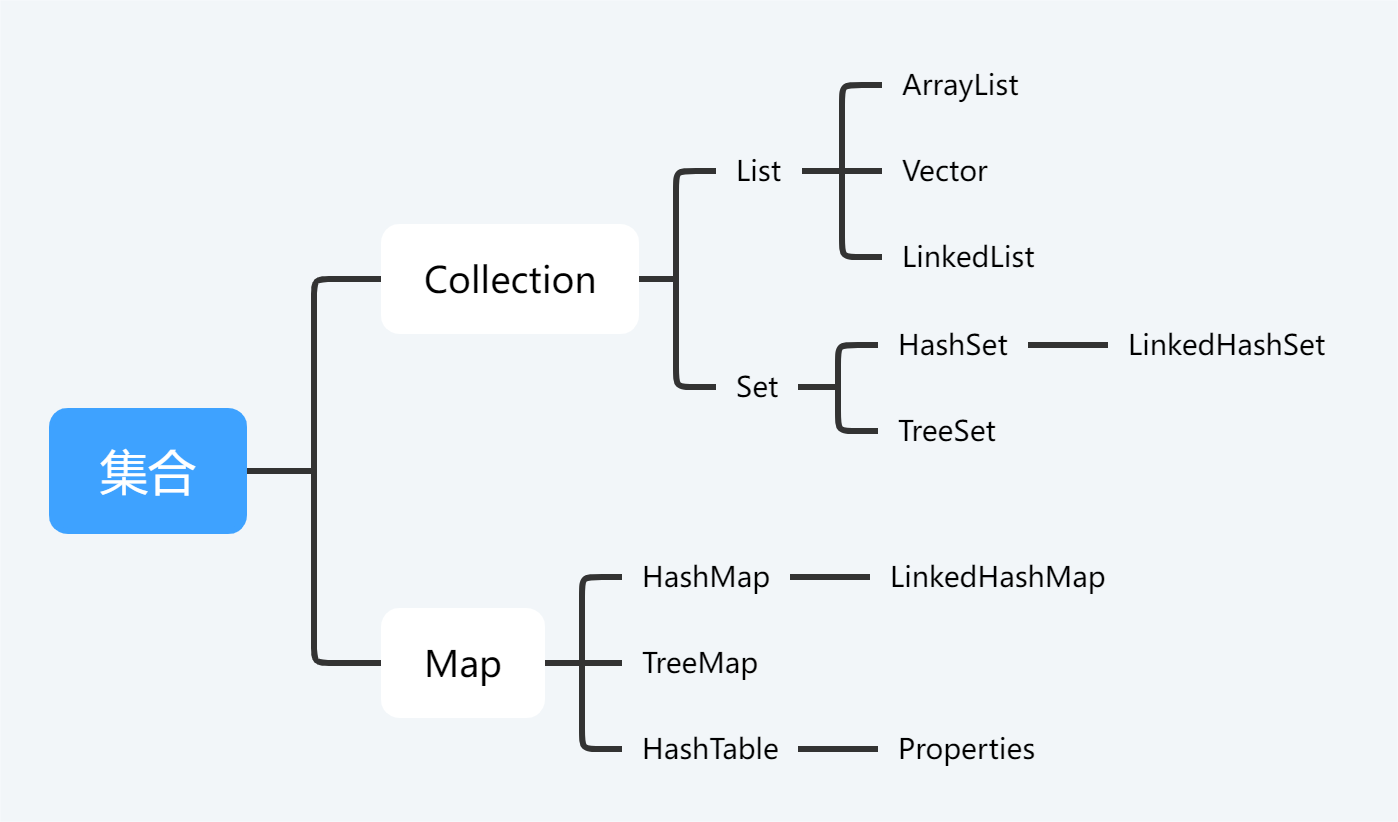
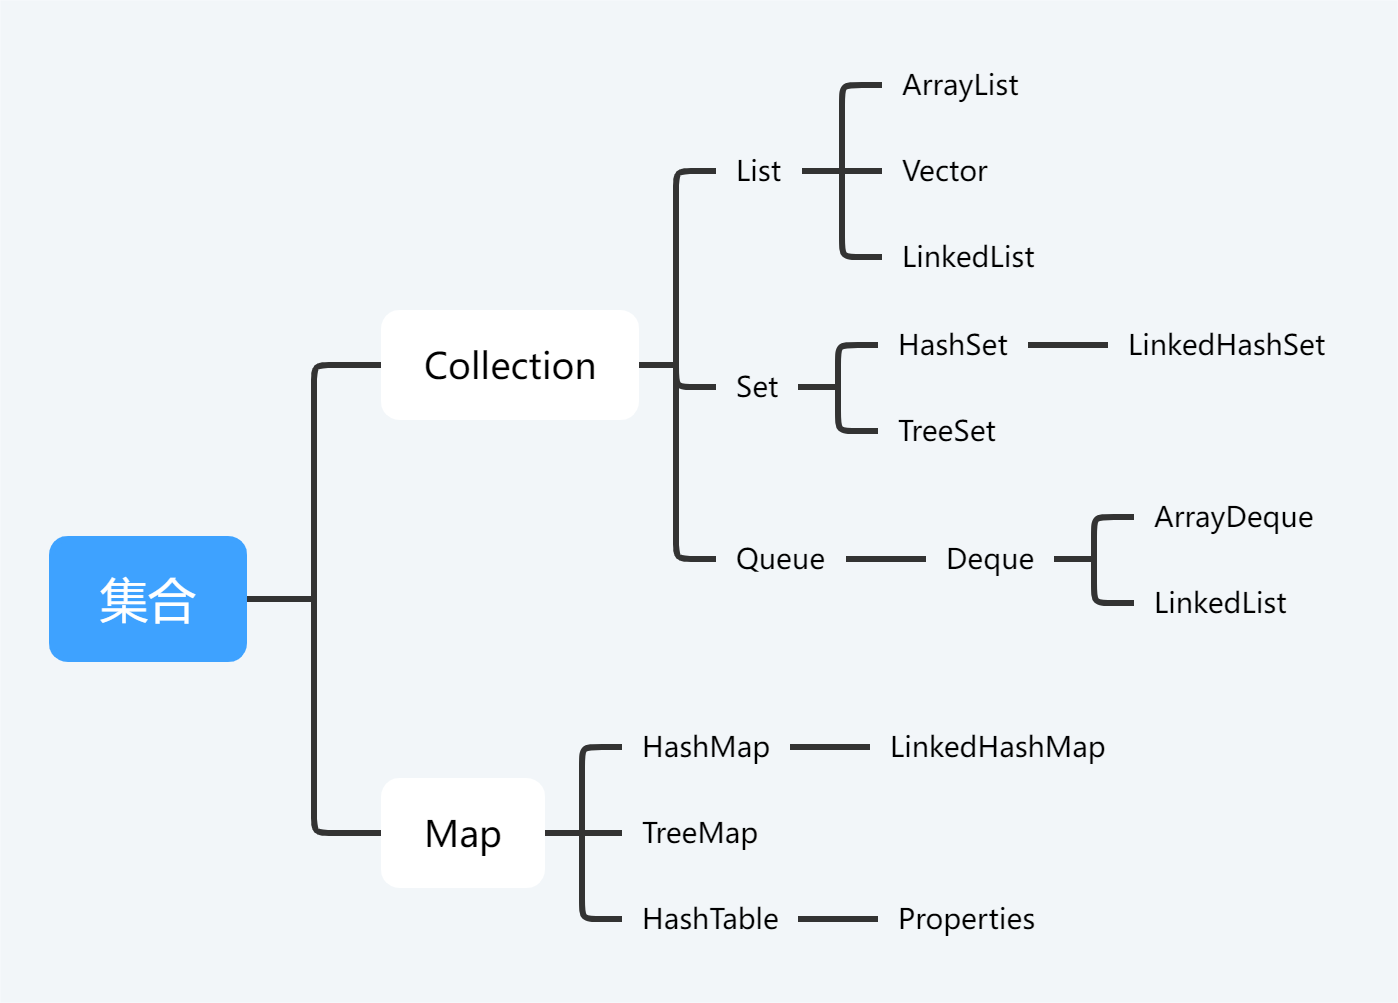
更新了Collection

diff --git a/new/Collection/QueueDemo.java b/new/Collection/QueueDemo.java
@@ -1,0 +1,60 @@
+import java.util.*;
+
+public class QueueDemo {
+    /**
+     * 用于测试插入以及删除的位置
+     * 结论：在尾部插入，在头部删除
+     */
+    public void test01(){
+        Queue<Integer> queue = new LinkedList<>();
+
+        queue.offer(1);
+        queue.offer(2);
+        queue.offer(3);
+
+        System.out.println(queue); //[1, 2, 3]
+
+        queue.poll();
+
+        System.out.println(queue); //[2, 3]
+
+        queue.offer(1);
+
+        System.out.println(queue); //[2, 3, 1]
+
+        System.out.println(queue.peek());   //2
+
+        System.out.println(queue); //[2, 3, 1]
+    }
+
+    /**
+     * 测试Deque
+     */
+    public void test02(){
+        Deque<Integer> deque = new LinkedList<>();
+
+        deque.offerFirst(1);
+        deque.offerFirst(2);
+        deque.offerFirst(3);
+
+        System.out.println(deque);  //[3, 2, 1]
+
+        deque.offerLast(1);
+        deque.offerLast(2);
+        deque.offerLast(3);
+
+        System.out.println(deque);  //[3, 2, 1, 1, 2, 3]
+
+        System.out.println(deque.peek());   //3
+
+        System.out.println(deque.contains(3));  //true
+
+        System.out.println(deque.size());   //6
+
+        Iterator<Integer> iterator = deque.iterator();
+        while(iterator.hasNext()){
+            Integer it = iterator.next();
+            System.out.print(it + " ");
+        }
+    }
+}

diff --git a/new/Collection/DemoSwitch.java b/new/Collection/DemoSwitch.java
@@ -1,0 +1,9 @@
+public class DemoSwitch {
+    private static final QueueDemo queueDemo = new QueueDemo();
+
+    public static void main(String[] args) {
+//        queueDemo.test01();
+        queueDemo.test02();
+
+    }
+}

diff --git a/new/Collection/Collection.md b/new/Collection/Collection.md
@@ -32,4 +32,86 @@ HashSet中的元素是**无序**的，它底层是用`HashMap`实现的，大概
 
 ## LInkedHashSet
 
-继承了`HashSet`，**底层利用双向链表保证对添加顺序**。
+继承了`HashSet`，**底层利用双向链表保证添加顺序**。
+
+# Queue
+
+![Collection图](Collection图.png)
+
+`Queue`即队列，遵循**FIFO**即**先进先出**原则。
+
+其方法总结：
+
+|         | Throws exception | Returns special value |
+| ------- | ---------------- | --------------------- |
+| Insert  | add(e)           | offer(e)              |
+| Remove  | remove()         | poll()                |
+| Examine | element()        | peek()                |
+
+通过测试可得：**在尾部插入，在头部删除。**
+
+~~~java
+Queue<Integer> queue = new LinkedList<>();
+
+queue.offer(1);
+queue.offer(2);
+queue.offer(3);
+
+System.out.println(queue); //[1, 2, 3]
+
+queue.poll();
+
+System.out.println(queue); //[2, 3]
+
+queue.offer(1);
+
+System.out.println(queue); //[2, 3, 1]
+
+System.out.println(queue.peek());   //2
+
+System.out.println(queue); //[2, 3, 1]
+~~~
+
+## Deque
+
+`Deque`为双端队列，即**两端都可以进行插入和删除**。
+
+`Deque`也是接口，其实现子类有`ArrayDeque`和`LinkedList`等。
+
+`Duque`也可以用做栈，所以`Stack`已经不推荐了，一般用`Deque`来实现一个栈，它包含了栈了三个主要操作：
+
+| peek()       | push(e)   | pop()            |
+| ------------ | --------- | ---------------- |
+| 返回栈顶元素 | 将e压入栈 | 将栈顶出栈并返回 |
+
+至于插入等操作则是新增了`First`和`Last`的区别，如`offer()`就有`offerFirst()`和`offerLast()。
+
+对应关系如下：
+
+| offer()                          | poll()                         | peek()                         | element()                    |
+| -------------------------------- | ------------------------------ | ------------------------------ | ---------------------------- |
+| *offerFirst()* and *offerLast()* | *pollFirst()* and *pollLast()* | *peekFirst()* and *peekLast()* | *getFirst()* and *getLast()* |
+
+~~~java
+Deque<Integer> deque = new LinkedList<>();
+
+deque.offerFirst(1);
+deque.offerFirst(2);
+deque.offerFirst(3);
+
+System.out.println(deque);  //[3, 2, 1]
+
+deque.offerLast(1);
+deque.offerLast(2);
+deque.offerLast(3);
+
+System.out.println(deque);  //[3, 2, 1, 1, 2, 3]
+
+System.out.println(deque.peek());   //3
+
+System.out.println(deque.contains(3));  //true
+
+System.out.println(deque.size());   //6
+~~~
+
+`offerFirst`头插，`offerLast`尾插。
